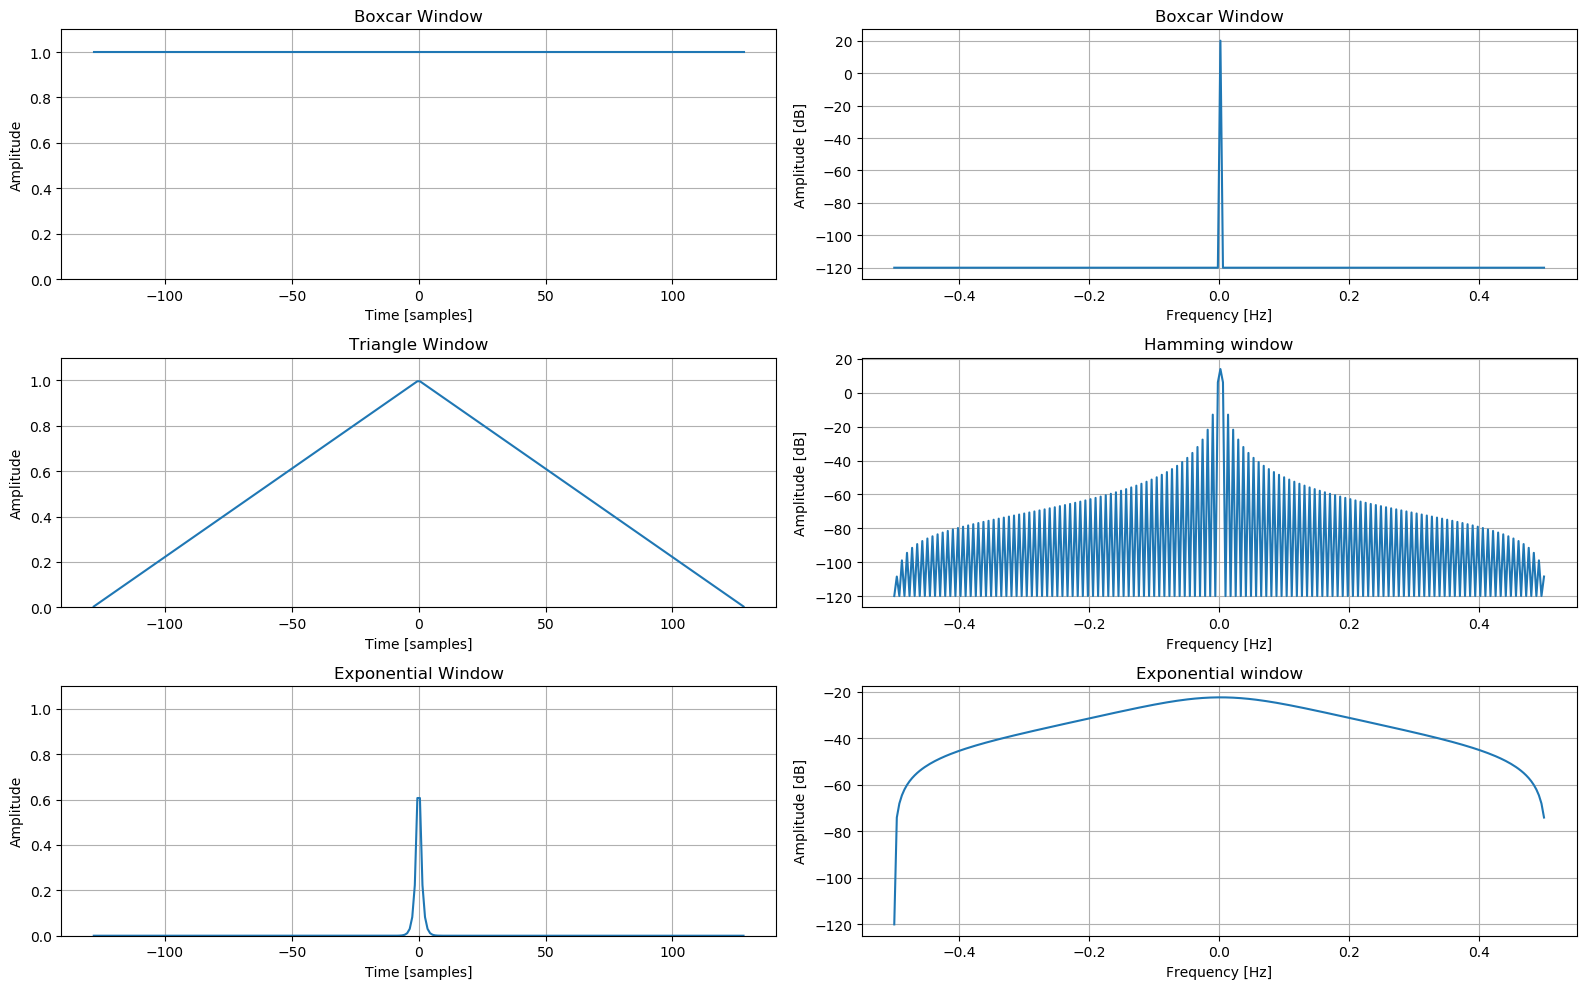
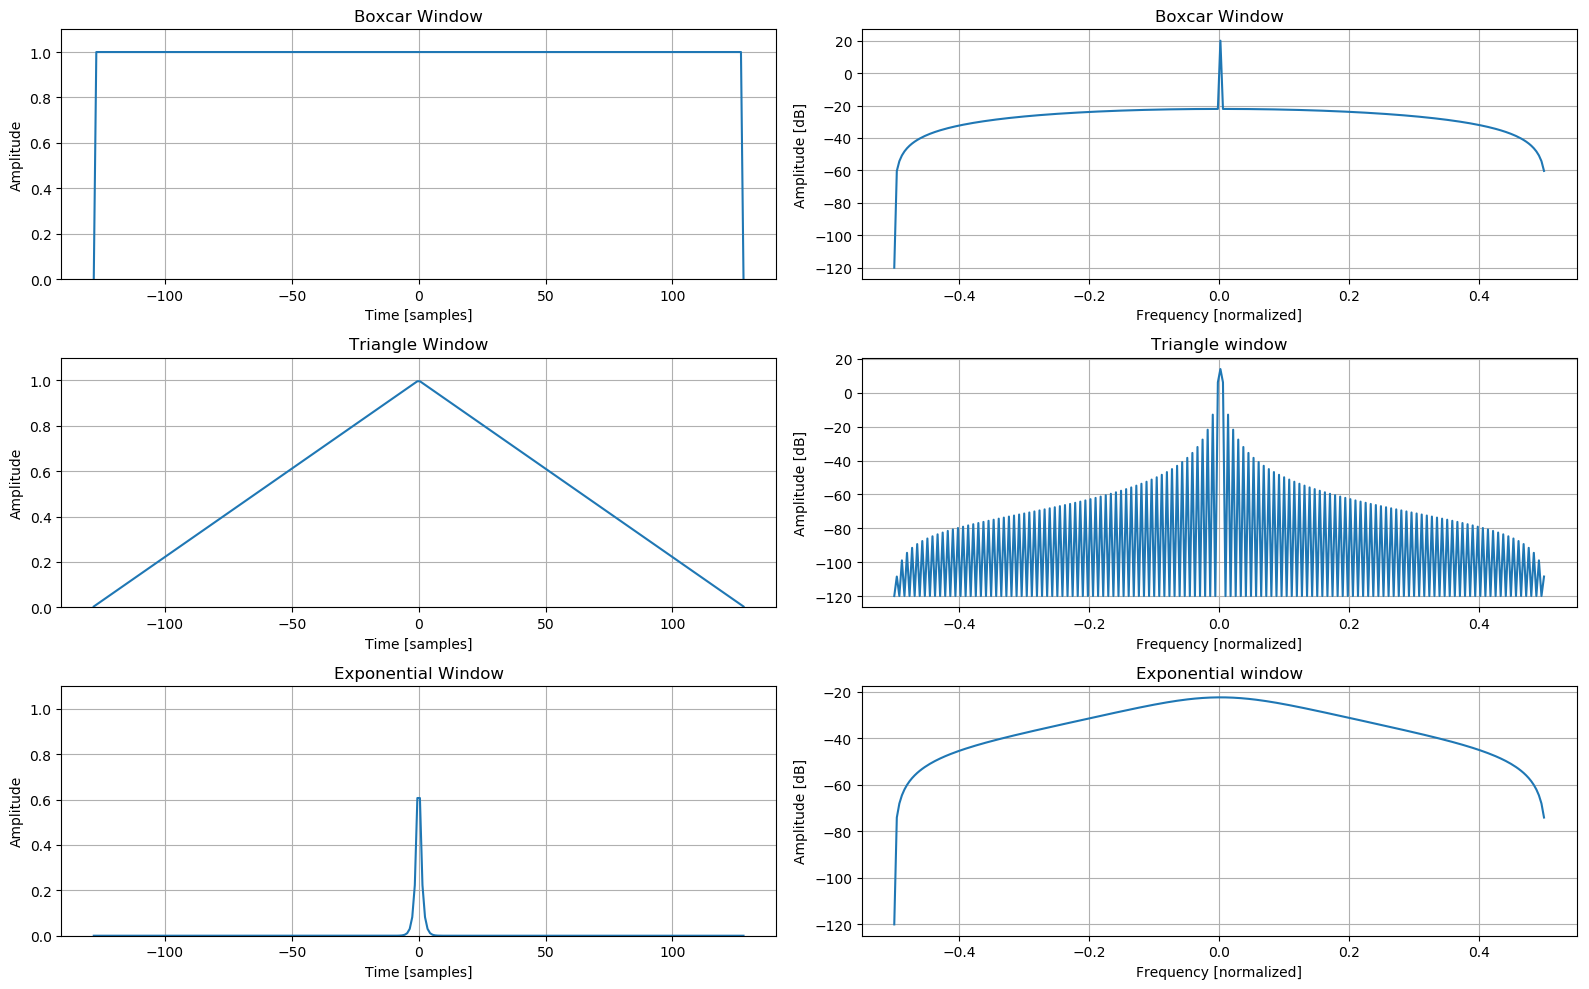
Add files via upload

diff --git a/Sketchpad003_FIRWindow/Sketchpad003_FIRWindow.py b/Sketchpad003_FIRWindow/Sketchpad003_FIRWindow.py
@@ -139,6 +139,7 @@ for n in range(512, 8, -4):
     plt.savefig('Frames/TruncatedResponse_'+a+'.png', bbox_inches="tight")
     count += 1
 
+
 # make gif out of each image file
 png_dir = 'Frames/'
 images = []
@@ -188,6 +189,8 @@ nCoeff = 128
 # compare windowing functions use 128+ samples for acceptable frequency graph
 negposTRange = np.linspace(-nCoeff,nCoeff,nCoeff*2)
 boxcar_window = scipy.signal.windows.boxcar(nCoeff*2)
+boxcar_window[0] = 0
+boxcar_window[len(boxcar_window)-1] = 0
 triang_window = scipy.signal.windows.triang(nCoeff*2)
 exponential_window = scipy.signal.windows.exponential(nCoeff*2)
 cosine_window = scipy.signal.windows.cosine(nCoeff*2)
@@ -223,7 +226,7 @@ plt.subplot(3, 2, 2)
 plt.plot(boxcar_windowResponse[0], boxcar_windowResponse[1])
 plt.title("Boxcar Window")
 plt.ylabel("Amplitude [dB]")
-plt.xlabel("Frequency [Hz]")
+plt.xlabel("Frequency [normalized]")
 plt.grid()
 plt.tight_layout()
 
@@ -236,9 +239,9 @@ plt.xlabel("Time [samples]")
 plt.grid()
 plt.subplot(3, 2, 4)
 plt.plot(triang_windowResponse[0], triang_windowResponse[1])
-plt.title("Hamming window")
+plt.title("Triangle window")
 plt.ylabel("Amplitude [dB]")
-plt.xlabel("Frequency [Hz]")
+plt.xlabel("Frequency [normalized]")
 plt.grid()
 plt.tight_layout()
 
@@ -253,7 +256,7 @@ plt.subplot(3, 2, 6)
 plt.plot(exponential_windowResponse[0], exponential_windowResponse[1])
 plt.title("Exponential window")
 plt.ylabel("Amplitude [dB]")
-plt.xlabel("Frequency [Hz]")
+plt.xlabel("Frequency [normalized]")
 plt.grid()
 plt.tight_layout()
 
@@ -272,7 +275,7 @@ plt.subplot(3, 2, 2)
 plt.plot(cosine_windowResponse[0], cosine_windowResponse[1])
 plt.title("Cosine window")
 plt.ylabel("Amplitude [dB]")
-plt.xlabel("Frequency [Hz]")
+plt.xlabel("Frequency [normalized]")
 plt.grid()
 plt.tight_layout()
 
@@ -288,7 +291,7 @@ plt.subplot(3, 2, 4)
 plt.plot(blackmanharris_windowResponse[0], blackmanharris_windowResponse[1])
 plt.title("Blackman-Harris window")
 plt.ylabel("Amplitude [dB]")
-plt.xlabel("Frequency [Hz]")
+plt.xlabel("Frequency [normalized]")
 plt.grid()
 plt.tight_layout()
 
@@ -303,7 +306,7 @@ plt.subplot(3, 2, 6)
 plt.plot(hamming_windowResponse[0], hamming_windowResponse[1])
 plt.title("Hamming window")
 plt.ylabel("Amplitude [dB]")
-plt.xlabel("Frequency [Hz]")
+plt.xlabel("Frequency [normalized]")
 plt.grid()
 plt.tight_layout()
 
@@ -387,4 +390,3 @@ print('triangle \t', np.real(triang_window[0:nCoeff]) )
 print('cosine \t', np.real(cosine_window[0:nCoeff]) )
 print('blackman-harris \t', np.real(blackmanharris_window[0:nCoeff]) )
 print('hamming_window \t', np.real(hamming_window[0:nCoeff]) )
-
